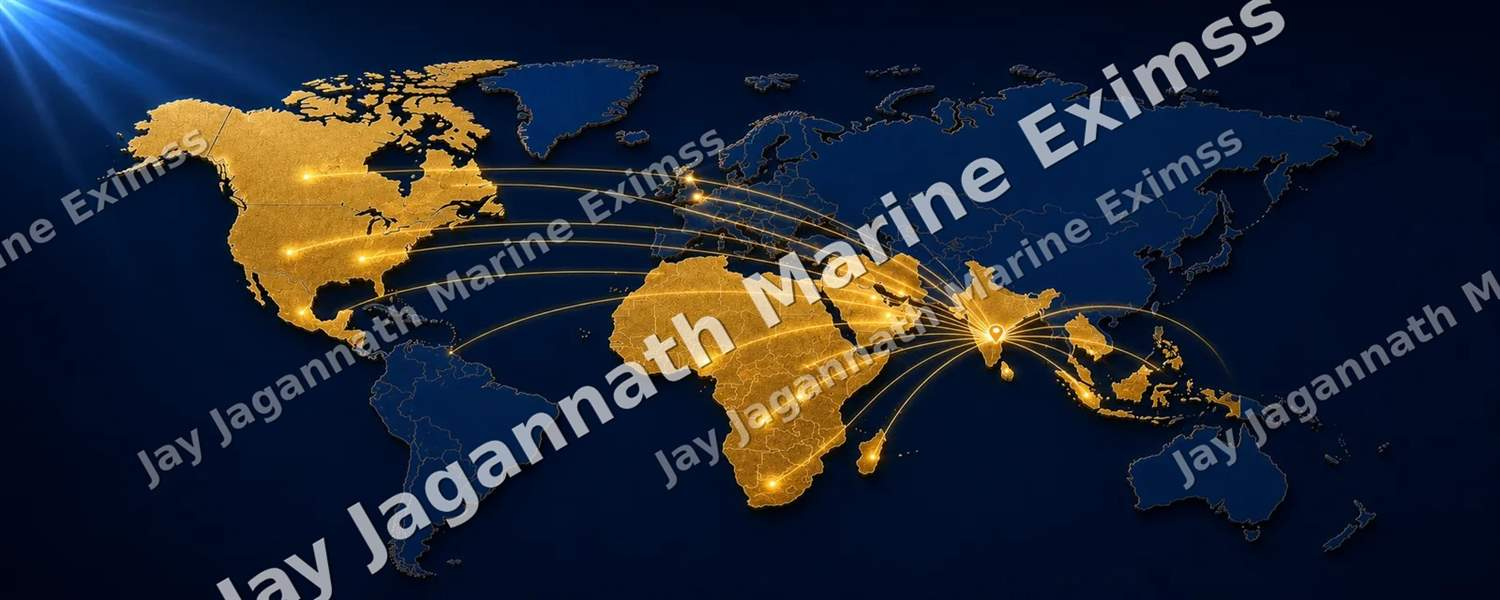
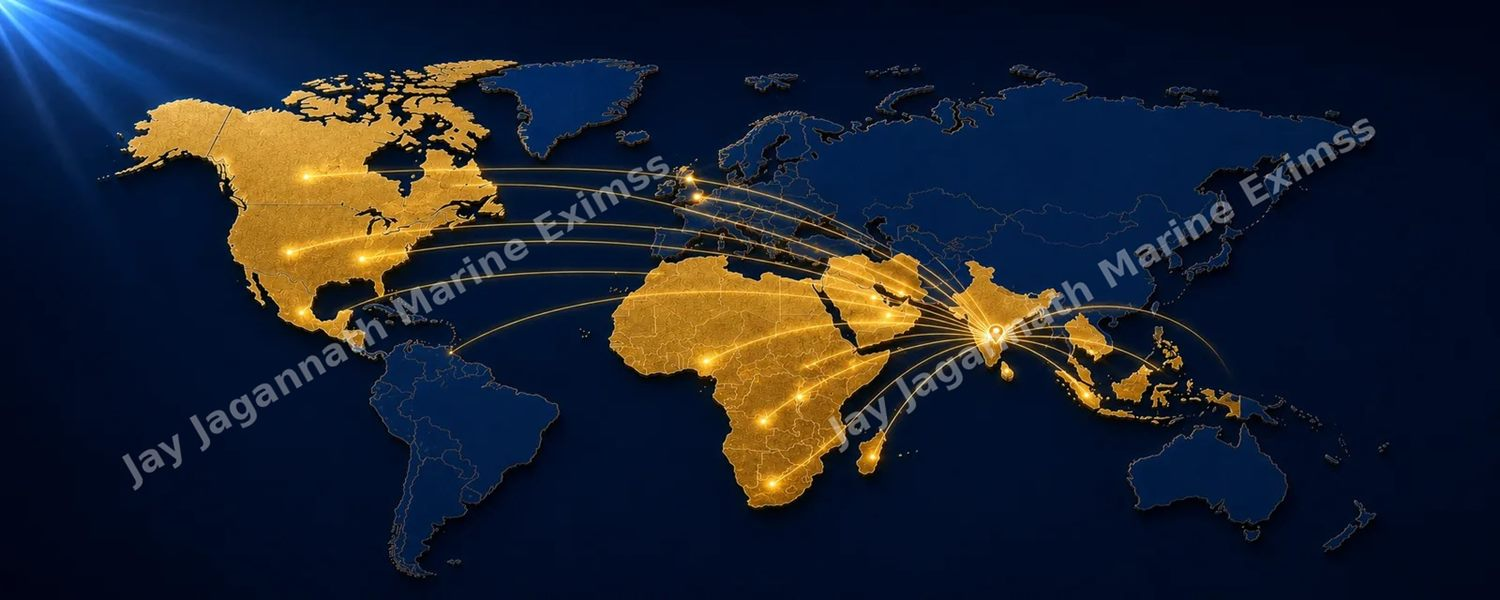
Switch to info@jjmeexporthouse.com, refresh photos, fix footer headings
The contact address changes to info@jjmeexporthouse.com in all 34 places it
appeared: the footer and contact blocks on every page, the JSON-LD email,
the note under the enquiry form, both fallback messages in enquiry.js and the
README. The site domain in canonical, og:url and sitemap.xml is deliberately
left alone - which domain the site itself will answer on is still undecided,
and rewriting it would point search engines at a host that does not resolve.

assets/img is regenerated from the re-watermarked masters in images/. The new
masters are the same photographs with a lighter, sparser watermark. Each is
rebuilt at its existing pixel size, so the width/height attributes in the
markup still match and nothing reflows. og-image.jpg is a centred crop of
Global_Export_Network.jpg, the only asset without a same-aspect master.

The footer headings were h4 directly under the page h2, skipping a level.
They are h3 now; .ft h3 pins line-height because the global h3 rule would
otherwise tighten it from the 1.7 the h4 inherited.

diff --git a/index.html b/index.html
@@ -51,7 +51,7 @@
     "postalCode": "753003",
     "addressCountry": "IN"
   },
-  "email": "jayjagannathmarineexim@gmail.com",
+  "email": "info@jjmeexporthouse.com",
   "telephone": ["+91-94383-37777", "+91-70086-13477"]
 }
 </script>
@@ -65,7 +65,7 @@
   <div class="wrap">
     <span>Cuttack, Odisha, India · Established 2017</span>
     <span>
-      <a href="mailto:jayjagannathmarineexim@gmail.com">jayjagannathmarineexim@gmail.com</a>
+      <a href="mailto:info@jjmeexporthouse.com">info@jjmeexporthouse.com</a>
       <span><a href="tel:+919438337777">+91 94383 37777</a></span>
     </span>
   </div>
@@ -383,7 +383,7 @@
         <input id="hp" name="website" type="text" tabindex="-1" autocomplete="off">
       </div>
       <div class="enq-foot">
-        <p class="enq-note">Or write directly to jayjagannathmarineexim@gmail.com</p>
+        <p class="enq-note">Or write directly to info@jjmeexporthouse.com</p>
         <button class="btn btn-gold" type="submit">Submit Enquiry</button>
       </div>
       <div class="rcpt" id="rcpt" role="status" aria-live="polite">
@@ -406,16 +406,16 @@
         </a>
         <p style="font-size:14px;max-width:30ch">Merchant exporter of classified fly ash and zinc ash from Cuttack, Odisha, India.</p>
       </div>
-      <div><h4>Company</h4><ul>
+      <div><h3>Company</h3><ul>
         <li><a href="product.html">Product Catalog</a></li><li><a href="classification.html">Classification</a></li>
         <li><a href="logistics.html">Export Logistics</a></li><li><a href="quality.html">Quality</a></li>
       </ul></div>
-      <div><h4>Products</h4><ul>
+      <div><h3>Products</h3><ul>
         <li>Fly Ash — Class F</li><li>Fly Ash — Class C</li><li>Bottom Ash</li><li>Pond Ash</li><li>Zinc Ash</li>
       </ul></div>
-      <div><h4>Contact</h4><ul>
+      <div><h3>Contact</h3><ul>
         <li>Ganesh Kutir, Balabhadrapur, Chhatra Bazar, Cuttack, Odisha 753003, India</li>
-        <li><a href="mailto:jayjagannathmarineexim@gmail.com">jayjagannathmarineexim@gmail.com</a></li>
+        <li><a href="mailto:info@jjmeexporthouse.com">info@jjmeexporthouse.com</a></li>
         <li><a href="tel:+919438337777">+91 94383 37777</a> · <a href="tel:+917008613477">+91 70086 13477</a></li>
         <li>Abinash Rout — Founder &amp; CEO</li>
       </ul></div>

diff --git a/calculator.html b/calculator.html
@@ -39,7 +39,7 @@
   <div class="wrap">
     <span>Cuttack, Odisha, India · Established 2017</span>
     <span>
-      <a href="mailto:jayjagannathmarineexim@gmail.com">jayjagannathmarineexim@gmail.com</a>
+      <a href="mailto:info@jjmeexporthouse.com">info@jjmeexporthouse.com</a>
       <span><a href="tel:+919438337777">+91 94383 37777</a></span>
     </span>
   </div>
@@ -196,7 +196,7 @@
         <input id="hp" name="website" type="text" tabindex="-1" autocomplete="off">
       </div>
       <div class="enq-foot">
-        <p class="enq-note">Or write directly to jayjagannathmarineexim@gmail.com</p>
+        <p class="enq-note">Or write directly to info@jjmeexporthouse.com</p>
         <button class="btn btn-gold" type="submit">Submit Enquiry</button>
       </div>
       <div class="rcpt" id="rcpt" role="status" aria-live="polite">
@@ -219,17 +219,17 @@
         </a>
         <p style="font-size:14px;max-width:30ch">Merchant exporter of classified fly ash and zinc ash from Cuttack, Odisha, India.</p>
       </div>
-      <div><h4>Company</h4><ul>
+      <div><h3>Company</h3><ul>
         <li><a href="product.html">Product Catalog</a></li><li><a href="classification.html">Classification</a></li>
         <li><a href="logistics.html">Export Logistics</a></li><li><a href="quality.html">Quality</a></li>
       </ul></div>
-      <div><h4>Products</h4><ul>
+      <div><h3>Products</h3><ul>
         <li><a href="product.html#grades">Fly Ash — Class F</a></li><li><a href="product.html#grades">Fly Ash — Class C</a></li>
         <li><a href="product.html#other">Bottom Ash</a></li><li><a href="product.html#other">Pond Ash</a></li><li><a href="product.html#other">Zinc Ash</a></li>
       </ul></div>
-      <div><h4>Contact</h4><ul>
+      <div><h3>Contact</h3><ul>
         <li>Ganesh Kutir, Balabhadrapur, Chhatra Bazar, Cuttack, Odisha 753003, India</li>
-        <li><a href="mailto:jayjagannathmarineexim@gmail.com">jayjagannathmarineexim@gmail.com</a></li>
+        <li><a href="mailto:info@jjmeexporthouse.com">info@jjmeexporthouse.com</a></li>
         <li><a href="tel:+919438337777">+91 94383 37777</a> · <a href="tel:+917008613477">+91 70086 13477</a></li>
         <li>Abinash Rout — Founder &amp; CEO</li>
       </ul></div>

diff --git a/classification.html b/classification.html
@@ -39,7 +39,7 @@
   <div class="wrap">
     <span>Cuttack, Odisha, India · Established 2017</span>
     <span>
-      <a href="mailto:jayjagannathmarineexim@gmail.com">jayjagannathmarineexim@gmail.com</a>
+      <a href="mailto:info@jjmeexporthouse.com">info@jjmeexporthouse.com</a>
       <span><a href="tel:+919438337777">+91 94383 37777</a></span>
     </span>
   </div>
@@ -260,17 +260,17 @@
         </a>
         <p style="font-size:14px;max-width:30ch">Merchant exporter of classified fly ash and zinc ash from Cuttack, Odisha, India.</p>
       </div>
-      <div><h4>Company</h4><ul>
+      <div><h3>Company</h3><ul>
         <li><a href="product.html">Product Catalog</a></li><li><a href="classification.html">Classification</a></li>
         <li><a href="logistics.html">Export Logistics</a></li><li><a href="quality.html">Quality</a></li>
       </ul></div>
-      <div><h4>Products</h4><ul>
+      <div><h3>Products</h3><ul>
         <li><a href="product.html#grades">Fly Ash — Class F</a></li><li><a href="product.html#grades">Fly Ash — Class C</a></li>
         <li><a href="product.html#other">Bottom Ash</a></li><li><a href="product.html#other">Pond Ash</a></li><li><a href="product.html#other">Zinc Ash</a></li>
       </ul></div>
-      <div><h4>Contact</h4><ul>
+      <div><h3>Contact</h3><ul>
         <li>Ganesh Kutir, Balabhadrapur, Chhatra Bazar, Cuttack, Odisha 753003, India</li>
-        <li><a href="mailto:jayjagannathmarineexim@gmail.com">jayjagannathmarineexim@gmail.com</a></li>
+        <li><a href="mailto:info@jjmeexporthouse.com">info@jjmeexporthouse.com</a></li>
         <li><a href="tel:+919438337777">+91 94383 37777</a> · <a href="tel:+917008613477">+91 70086 13477</a></li>
         <li>Abinash Rout — Founder &amp; CEO</li>
       </ul></div>

diff --git a/logistics.html b/logistics.html
@@ -39,7 +39,7 @@
   <div class="wrap">
     <span>Cuttack, Odisha, India · Established 2017</span>
     <span>
-      <a href="mailto:jayjagannathmarineexim@gmail.com">jayjagannathmarineexim@gmail.com</a>
+      <a href="mailto:info@jjmeexporthouse.com">info@jjmeexporthouse.com</a>
       <span><a href="tel:+919438337777">+91 94383 37777</a></span>
     </span>
   </div>
@@ -266,17 +266,17 @@
         </a>
         <p style="font-size:14px;max-width:30ch">Merchant exporter of classified fly ash and zinc ash from Cuttack, Odisha, India.</p>
       </div>
-      <div><h4>Company</h4><ul>
+      <div><h3>Company</h3><ul>
         <li><a href="product.html">Product Catalog</a></li><li><a href="classification.html">Classification</a></li>
         <li><a href="logistics.html">Export Logistics</a></li><li><a href="quality.html">Quality</a></li>
       </ul></div>
-      <div><h4>Products</h4><ul>
+      <div><h3>Products</h3><ul>
         <li><a href="product.html#grades">Fly Ash — Class F</a></li><li><a href="product.html#grades">Fly Ash — Class C</a></li>
         <li><a href="product.html#other">Bottom Ash</a></li><li><a href="product.html#other">Pond Ash</a></li><li><a href="product.html#other">Zinc Ash</a></li>
       </ul></div>
-      <div><h4>Contact</h4><ul>
+      <div><h3>Contact</h3><ul>
         <li>Ganesh Kutir, Balabhadrapur, Chhatra Bazar, Cuttack, Odisha 753003, India</li>
-        <li><a href="mailto:jayjagannathmarineexim@gmail.com">jayjagannathmarineexim@gmail.com</a></li>
+        <li><a href="mailto:info@jjmeexporthouse.com">info@jjmeexporthouse.com</a></li>
         <li><a href="tel:+919438337777">+91 94383 37777</a> · <a href="tel:+917008613477">+91 70086 13477</a></li>
         <li>Abinash Rout — Founder &amp; CEO</li>
       </ul></div>

diff --git a/network.html b/network.html
@@ -39,7 +39,7 @@
   <div class="wrap">
     <span>Cuttack, Odisha, India · Established 2017</span>
     <span>
-      <a href="mailto:jayjagannathmarineexim@gmail.com">jayjagannathmarineexim@gmail.com</a>
+      <a href="mailto:info@jjmeexporthouse.com">info@jjmeexporthouse.com</a>
       <span><a href="tel:+919438337777">+91 94383 37777</a></span>
     </span>
   </div>
@@ -202,17 +202,17 @@
         </a>
         <p style="font-size:14px;max-width:30ch">Merchant exporter of classified fly ash and zinc ash from Cuttack, Odisha, India.</p>
       </div>
-      <div><h4>Company</h4><ul>
+      <div><h3>Company</h3><ul>
         <li><a href="product.html">Product Catalog</a></li><li><a href="classification.html">Classification</a></li>
         <li><a href="logistics.html">Export Logistics</a></li><li><a href="network.html">Network</a></li>
       </ul></div>
-      <div><h4>Products</h4><ul>
+      <div><h3>Products</h3><ul>
         <li><a href="product.html#grades">Fly Ash — Class F</a></li><li><a href="product.html#grades">Fly Ash — Class C</a></li>
         <li><a href="product.html#other">Bottom Ash</a></li><li><a href="product.html#other">Pond Ash</a></li><li><a href="product.html#other">Zinc Ash</a></li>
       </ul></div>
-      <div><h4>Contact</h4><ul>
+      <div><h3>Contact</h3><ul>
         <li>Ganesh Kutir, Balabhadrapur, Chhatra Bazar, Cuttack, Odisha 753003, India</li>
-        <li><a href="mailto:jayjagannathmarineexim@gmail.com">jayjagannathmarineexim@gmail.com</a></li>
+        <li><a href="mailto:info@jjmeexporthouse.com">info@jjmeexporthouse.com</a></li>
         <li><a href="tel:+919438337777">+91 94383 37777</a> · <a href="tel:+917008613477">+91 70086 13477</a></li>
         <li>Abinash Rout — Founder &amp; CEO</li>
       </ul></div>

diff --git a/quality.html b/quality.html
@@ -39,7 +39,7 @@
   <div class="wrap">
     <span>Cuttack, Odisha, India · Established 2017</span>
     <span>
-      <a href="mailto:jayjagannathmarineexim@gmail.com">jayjagannathmarineexim@gmail.com</a>
+      <a href="mailto:info@jjmeexporthouse.com">info@jjmeexporthouse.com</a>
       <span><a href="tel:+919438337777">+91 94383 37777</a></span>
     </span>
   </div>
@@ -266,17 +266,17 @@
         </a>
         <p style="font-size:14px;max-width:30ch">Merchant exporter of classified fly ash and zinc ash from Cuttack, Odisha, India.</p>
       </div>
-      <div><h4>Company</h4><ul>
+      <div><h3>Company</h3><ul>
         <li><a href="product.html">Product Catalog</a></li><li><a href="classification.html">Classification</a></li>
         <li><a href="logistics.html">Export Logistics</a></li><li><a href="quality.html">Quality</a></li>
       </ul></div>
-      <div><h4>Products</h4><ul>
+      <div><h3>Products</h3><ul>
         <li><a href="product.html#grades">Fly Ash — Class F</a></li><li><a href="product.html#grades">Fly Ash — Class C</a></li>
         <li><a href="product.html#other">Bottom Ash</a></li><li><a href="product.html#other">Pond Ash</a></li><li><a href="product.html#other">Zinc Ash</a></li>
       </ul></div>
-      <div><h4>Contact</h4><ul>
+      <div><h3>Contact</h3><ul>
         <li>Ganesh Kutir, Balabhadrapur, Chhatra Bazar, Cuttack, Odisha 753003, India</li>
-        <li><a href="mailto:jayjagannathmarineexim@gmail.com">jayjagannathmarineexim@gmail.com</a></li>
+        <li><a href="mailto:info@jjmeexporthouse.com">info@jjmeexporthouse.com</a></li>
         <li><a href="tel:+919438337777">+91 94383 37777</a> · <a href="tel:+917008613477">+91 70086 13477</a></li>
         <li>Abinash Rout — Founder &amp; CEO</li>
       </ul></div>

diff --git a/product.html b/product.html
@@ -39,7 +39,7 @@
   <div class="wrap">
     <span>Cuttack, Odisha, India · Established 2017</span>
     <span>
-      <a href="mailto:jayjagannathmarineexim@gmail.com">jayjagannathmarineexim@gmail.com</a>
+      <a href="mailto:info@jjmeexporthouse.com">info@jjmeexporthouse.com</a>
       <span><a href="tel:+919438337777">+91 94383 37777</a></span>
     </span>
   </div>
@@ -251,17 +251,17 @@
         </a>
         <p style="font-size:14px;max-width:30ch">Merchant exporter of classified fly ash and zinc ash from Cuttack, Odisha, India.</p>
       </div>
-      <div><h4>Company</h4><ul>
+      <div><h3>Company</h3><ul>
         <li><a href="product.html">Product Catalog</a></li><li><a href="classification.html">Classification</a></li>
         <li><a href="logistics.html">Export Logistics</a></li><li><a href="quality.html">Quality</a></li>
       </ul></div>
-      <div><h4>Products</h4><ul>
+      <div><h3>Products</h3><ul>
         <li><a href="#grades">Fly Ash — Class F</a></li><li><a href="#grades">Fly Ash — Class C</a></li>
         <li><a href="#other">Bottom Ash</a></li><li><a href="#other">Pond Ash</a></li><li><a href="#other">Zinc Ash</a></li>
       </ul></div>
-      <div><h4>Contact</h4><ul>
+      <div><h3>Contact</h3><ul>
         <li>Ganesh Kutir, Balabhadrapur, Chhatra Bazar, Cuttack, Odisha 753003, India</li>
-        <li><a href="mailto:jayjagannathmarineexim@gmail.com">jayjagannathmarineexim@gmail.com</a></li>
+        <li><a href="mailto:info@jjmeexporthouse.com">info@jjmeexporthouse.com</a></li>
         <li><a href="tel:+919438337777">+91 94383 37777</a> · <a href="tel:+917008613477">+91 70086 13477</a></li>
         <li>Abinash Rout — Founder &amp; CEO</li>
       </ul></div>

diff --git a/assets/css/styles.css b/assets/css/styles.css
@@ -789,7 +789,10 @@ input[type=range]::-moz-range-thumb{width:22px;height:22px;border-radius:50%;bac
 .ft-lockup{display:flex;align-items:center;gap:16px}
 .ft-lockup .brand-tx{font-size:17px}
 .ft-lockup .brand-tx small{font-size:11px;margin-top:5px}
-.ft h4{font-family:var(--body);font-size:12px;font-weight:700;letter-spacing:.2em;text-transform:uppercase;color:var(--gold);margin:0 0 16px}
+/* h3, not h4 - the footer sits under the page h2, so h4 skipped a level.
+   line-height is pinned because the global h3 rule sets 1.4, where the old
+   h4 inherited 1.7 from body; without this the labels would shift. */
+.ft h3{font-family:var(--body);font-size:12px;font-weight:700;letter-spacing:.2em;text-transform:uppercase;color:var(--gold);margin:0 0 16px;line-height:1.7}
 .ft ul{list-style:none;margin:0;padding:0;display:grid;gap:11px;font-size:14px}
 .ft a:hover{color:var(--gold)}
 .ft-bar{margin-top:clamp(36px,5vw,56px);border-top:1px solid var(--navy-3);padding-block:20px;display:flex;justify-content:space-between;gap:14px;flex-wrap:wrap;font-size:12px;color:#8FA3B6}

diff --git a/assets/js/enquiry.js b/assets/js/enquiry.js
@@ -80,7 +80,7 @@
 
       if (!res.ok || !data.ok) {
         receipt('Not Sent', '', 'Please Try Again',
-          data.error || 'The enquiry could not be sent. Please email jayjagannathmarineexim@gmail.com.');
+          data.error || 'The enquiry could not be sent. Please email info@jjmeexporthouse.com.');
         return;
       }
 
@@ -90,7 +90,7 @@
     } catch {
       // offline, DNS, blocked request — the address is the reliable fallback
       receipt('Not Sent', '', 'Connection Failed',
-        'We could not reach the enquiry desk. Please check your connection, or email jayjagannathmarineexim@gmail.com.');
+        'We could not reach the enquiry desk. Please check your connection, or email info@jjmeexporthouse.com.');
     } finally {
       setBusy(false);
     }

diff --git a/README.md b/README.md
@@ -109,4 +109,4 @@ Connected to Vercel via GitHub. Every push to `main` triggers a deploy.
 ## Contact
 
 Ganesh Kutir, Balabhadrapur, Chhatra Bazar, Cuttack, Odisha 753003, India
-jayjagannathmarineexim@gmail.com · +91 94383 37777 · +91 70086 13477
+info@jjmeexporthouse.com · +91 94383 37777 · +91 70086 13477
